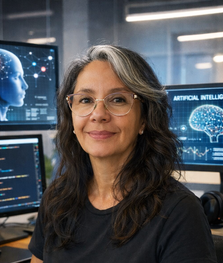
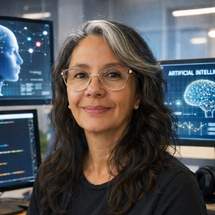
Atualização do Cartao Apresentacao

diff --git a/index.html b/index.html
@@ -20,19 +20,19 @@
 
         <p>RH | Dados | Tecnologia</p>
 
-        <a href="https://github.com/YkemotoSuely"
+        <a href="https://github.com/YkemotoSuely" target="_blank" rel="noopener noreferrer">
             <i class="fab fa-github"></i> GitHub
         </a>
 
-        <a href="https://www.linkedin.com/in/suely-ykemoto"
+        <a href="https://www.linkedin.com/in/suely-ykemoto" target="_blank" rel="noopener noreferrer">
             <i class="fab fa-linkedin"></i> LinkedIn
         </a>
 
-        <a href="https://wa.me/5514996143006" target="_blank">
+        <a href="https://wa.me/5514996143006" target="_blank" rel="noopener noreferrer">
             <i class="fab fa-whatsapp"></i> WhatsApp
         </a>
 
-        <a href="mailto:suelyykemoto65@gmail.com">
+        <a href="mailto:suelyykemoto65@gmail.com" target="_blank" rel="noopener noreferrer">
             <i class="fas fa-envelope"></i> Email
         </a>
 

diff --git a/style.css b/style.css
@@ -87,5 +87,5 @@ body {
 
 /* Efeito hover */
 .card a:hover {
-    background: #030653;
+    background: #010336;
 }
